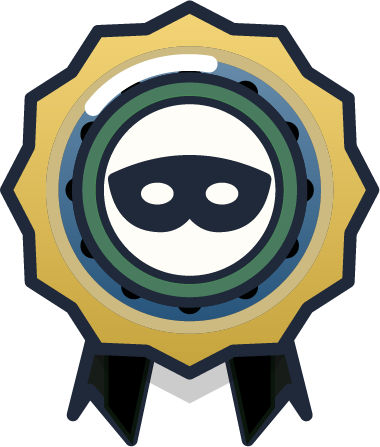
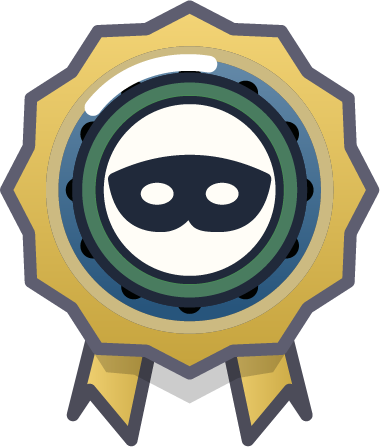
new outline on impersonation badge and text nudge on report card bottom

Changed region(s): [[0.0, 0.0, 1.0, 1.0], [0.4921, 0.4944, 0.55, 0.5235], [0.6947, 0.4362, 0.7237, 0.4653]]

diff --git a/translations_extra.js b/translations_extra.js
@@ -83,7 +83,7 @@ en: {
   cardDownload: "Download your press card",
   cardUnavailable: "Card rendering unavailable here",
   cardRole: "Tip Desk \u2014 Verification",
-  cardBackTitle: "Eight ways to fake it",
+  cardBackTitle: "Nine ways to fake it",
   cardBackFoot: "Check before you share. \u2014 Sarah",
   welcomeP3: "To publish or not to publish. That\u2019s the question.",
   welcomeP4: "Your first tip is already waiting.",
@@ -455,7 +455,7 @@ sv: {
   cardDownload: "Ladda ner ditt presskort",
   cardUnavailable: "Kortet kan inte renderas här",
   cardRole: "Tipsdesken \u2014 Verifiering",
-  cardBackTitle: "Åtta sätt att fejka",
+  cardBackTitle: "Nio sätt att fejka",
   cardBackFoot: "Kolla innan du delar. \u2014 Sarah",
   welcomeP3: "Att publicera eller inte publicera. Det är frågan.",
   welcomeP4: "Ditt första tips väntar redan.",
@@ -825,7 +825,7 @@ fi: {
   cardDownload: "Lataa lehdistökorttisi",
   cardUnavailable: "Korttia ei voi piirtää tässä",
   cardRole: "Vihjedeski \u2014 Varmistus",
-  cardBackTitle: "Kahdeksan tapaa feikata",
+  cardBackTitle: "Yhdeksän tapaa feikata",
   cardBackFoot: "Tarkista ennen kuin jaat. \u2014 Sarah",
   welcomeP3: "Julkaista vai eikö julkaista. Siinä pulma.",
   welcomeP4: "Ensimmäinen vihjeesi odottaa jo.",
@@ -1192,7 +1192,7 @@ et: {
   cardDownload: "Laadi alla oma pressikaart",
   cardUnavailable: "Kaarti ei saa siin joonistada",
   cardRole: "Vihjelaud \u2014 Kontroll",
-  cardBackTitle: "Kaheksa viisi võltsida",
+  cardBackTitle: "Üheksa viisi võltsida",
   cardBackFoot: "Kontrolli enne jagamist. \u2014 Sarah",
   welcomeP3: "Avaldada või mitte avaldada. Selles on küsimus.",
   welcomeP4: "Su esimene vihje juba ootab.",

diff --git a/index.html b/index.html
@@ -850,7 +850,7 @@ async function drawPressCard(o){
   o.improve.forEach(t2=>{ wrap(probe,"➤  "+t2,830,"24px monospace").forEach((l,i)=>impLines.push(i?("    "+l):l)); impLines.push(""); });
   if(impLines[impLines.length-1]==="") impLines.pop();
   const ledgerH=40+o.ledger.length*30;
-  const H=660 + 260 + (56+wellLines.length*32+24) + (56+impLines.length*32+24) + (56+ledgerH) + 640 + 60;
+  const H=660 + 260 + (56+wellLines.length*32+24) + (56+impLines.length*32+24) + (56+ledgerH) + 704 + 60;
   const c=document.createElement("canvas"); c.width=W; c.height=H;
   const x=c.getContext("2d");
   x.fillStyle="#E9E6DC"; x.fillRect(0,0,W,H);
@@ -903,15 +903,15 @@ async function drawPressCard(o){
     x.fillStyle=ink; x.fillText(r.title,110,yy); yy+=30; });
   y=yy+20;
   // ---- back card: the pocket field guide ----
-  roundRect(x,26,40,y,920,600); x.fillStyle="#10254E"; x.fill(); x.lineWidth=7; x.strokeStyle=ink; x.stroke();
+  roundRect(x,26,40,y,920,664); x.fillStyle="#10254E"; x.fill(); x.lineWidth=7; x.strokeStyle=ink; x.stroke();
   x.textAlign="center"; x.fillStyle=gold; x.font="700 38px Georgia,serif";
   x.fillText(o.backTitle,W/2,y+78);
   x.textAlign="left"; x.fillStyle="#FFFFFF";
   o.techs.forEach((name,i)=>{ x.font="26px monospace";
     if(x.measureText("•  "+name).width>720) x.font="21px monospace";
-    x.fillText("•  "+name,120,y+140+i*52); });
+    x.fillText("•  "+name,120,y+138+i*48); });
   x.textAlign="center"; x.font="italic 26px Georgia,serif"; x.fillStyle="#C7CDDB";
-  x.fillText(o.backFoot,W/2,y+568);
+  x.fillText(o.backFoot,W/2,y+626);
   return c;
 }
 function setMeters(dc,dp,ds){
